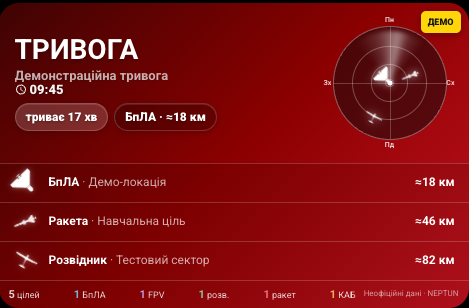
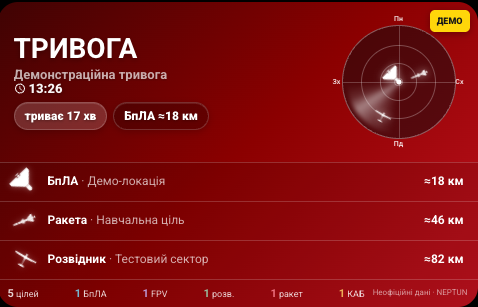
Prepare 0.3.2 documentation release

diff --git a/custom_components/air_threat_monitor/assets/air-threat-radar-card.js b/custom_components/air_threat_monitor/assets/air-threat-radar-card.js
@@ -4,7 +4,7 @@
 const CARD_TYPE = "air-threat-radar-card";
 const EDITOR_TYPE = "air-threat-radar-card-editor";
 const API_PREFIX = "air_threat_monitor";
-const ASSET_VERSION = "0.3.1";
+const ASSET_VERSION = "0.3.2";
 const SNAPSHOT_CACHE_PREFIX = `${API_PREFIX}:snapshot-cache:v1`;
 const SNAPSHOT_CACHE_MAX_AGE_MS = 30 * 60 * 1000;
 const DEGRADED_SNAPSHOT_GRACE_MS = 60 * 1000;

diff --git a/tests/test_release.py b/tests/test_release.py
@@ -44,11 +44,7 @@ def test_hacs_release_metadata() -> None:
 
     readme = (ROOT / "README.md").read_text(encoding="utf-8")
     assert "![Air Threat Monitor](brand/logo.png)" in readme
-    assert (
-        "![Air Threat Radar demo alert with animated radar and target list]"
-        "(docs/images/demo-alert-signal.png)"
-        in readme
-    )
+    assert "![Alert signal-color demo](docs/images/demo-alert-signal.png)" in readme
     screenshots = (
         "demo-safe-signal.png",
         "demo-alert-signal.png",

diff --git a/custom_components/air_threat_monitor/const.py b/custom_components/air_threat_monitor/const.py
@@ -6,7 +6,7 @@ from datetime import timedelta
 from typing import Final
 
 DOMAIN = "air_threat_monitor"
-VERSION: Final = "0.3.1"
+VERSION: Final = "0.3.2"
 DEFAULT_ENTRY_TITLE: Final = "Air Threat Monitor"
 PROJECT_URL: Final = "https://github.com/serg-ill/air-threat-monitor"
 CONFIG_ENTRY_VERSION: Final = 2

diff --git a/README.md b/README.md
@@ -11,10 +11,6 @@ direction, and a north-up radar card.
 > Always follow official air-alert signals and instructions from Ukrainian
 > authorities.
 
-![Air Threat Radar demo alert with animated radar and target list](docs/images/demo-alert-signal.png)
-
-<p align="center"><em>Alert demonstration data. No live threat is shown.</em></p>
-
 ## Features
 
 - Setup entirely through the Home Assistant interface.
@@ -45,9 +41,9 @@ direction, and a north-up radar card.
 
 ## Card styles
 
-| Signal colors | Theme-aware dark | Theme-aware light |
-|:---:|:---:|:---:|
-| ![Safe signal-color demo](docs/images/demo-safe-signal.png) | ![Safe dark-theme demo](docs/images/demo-safe-theme-dark.png) | ![Safe light-theme demo](docs/images/demo-safe-theme-light.png) |
+| Signal colors | Alert signal | Theme-aware dark | Theme-aware light |
+|:---:|:---:|:---:|:---:|
+| ![Safe signal-color demo](docs/images/demo-safe-signal.png) | ![Alert signal-color demo](docs/images/demo-alert-signal.png) | ![Safe dark-theme demo](docs/images/demo-safe-theme-dark.png) | ![Safe light-theme demo](docs/images/demo-safe-theme-light.png) |
 
 All screenshots use the built-in demonstration mode. Demo data remains local
 to the card, does not change Home Assistant entities, and cannot trigger

diff --git a/CHANGELOG.md b/CHANGELOG.md
@@ -1,5 +1,12 @@
 # Changelog
 
+## 0.3.2
+
+- Fixed the project logo and alert demonstration image in the HACS repository
+  description by using HACS-compatible Markdown image links.
+- Added the updated alert demonstration screenshot to the card-style comparison
+  in the project documentation.
+
 ## 0.3.1
 
 - Keep the last successful radar snapshot visible for up to 60 seconds after a
